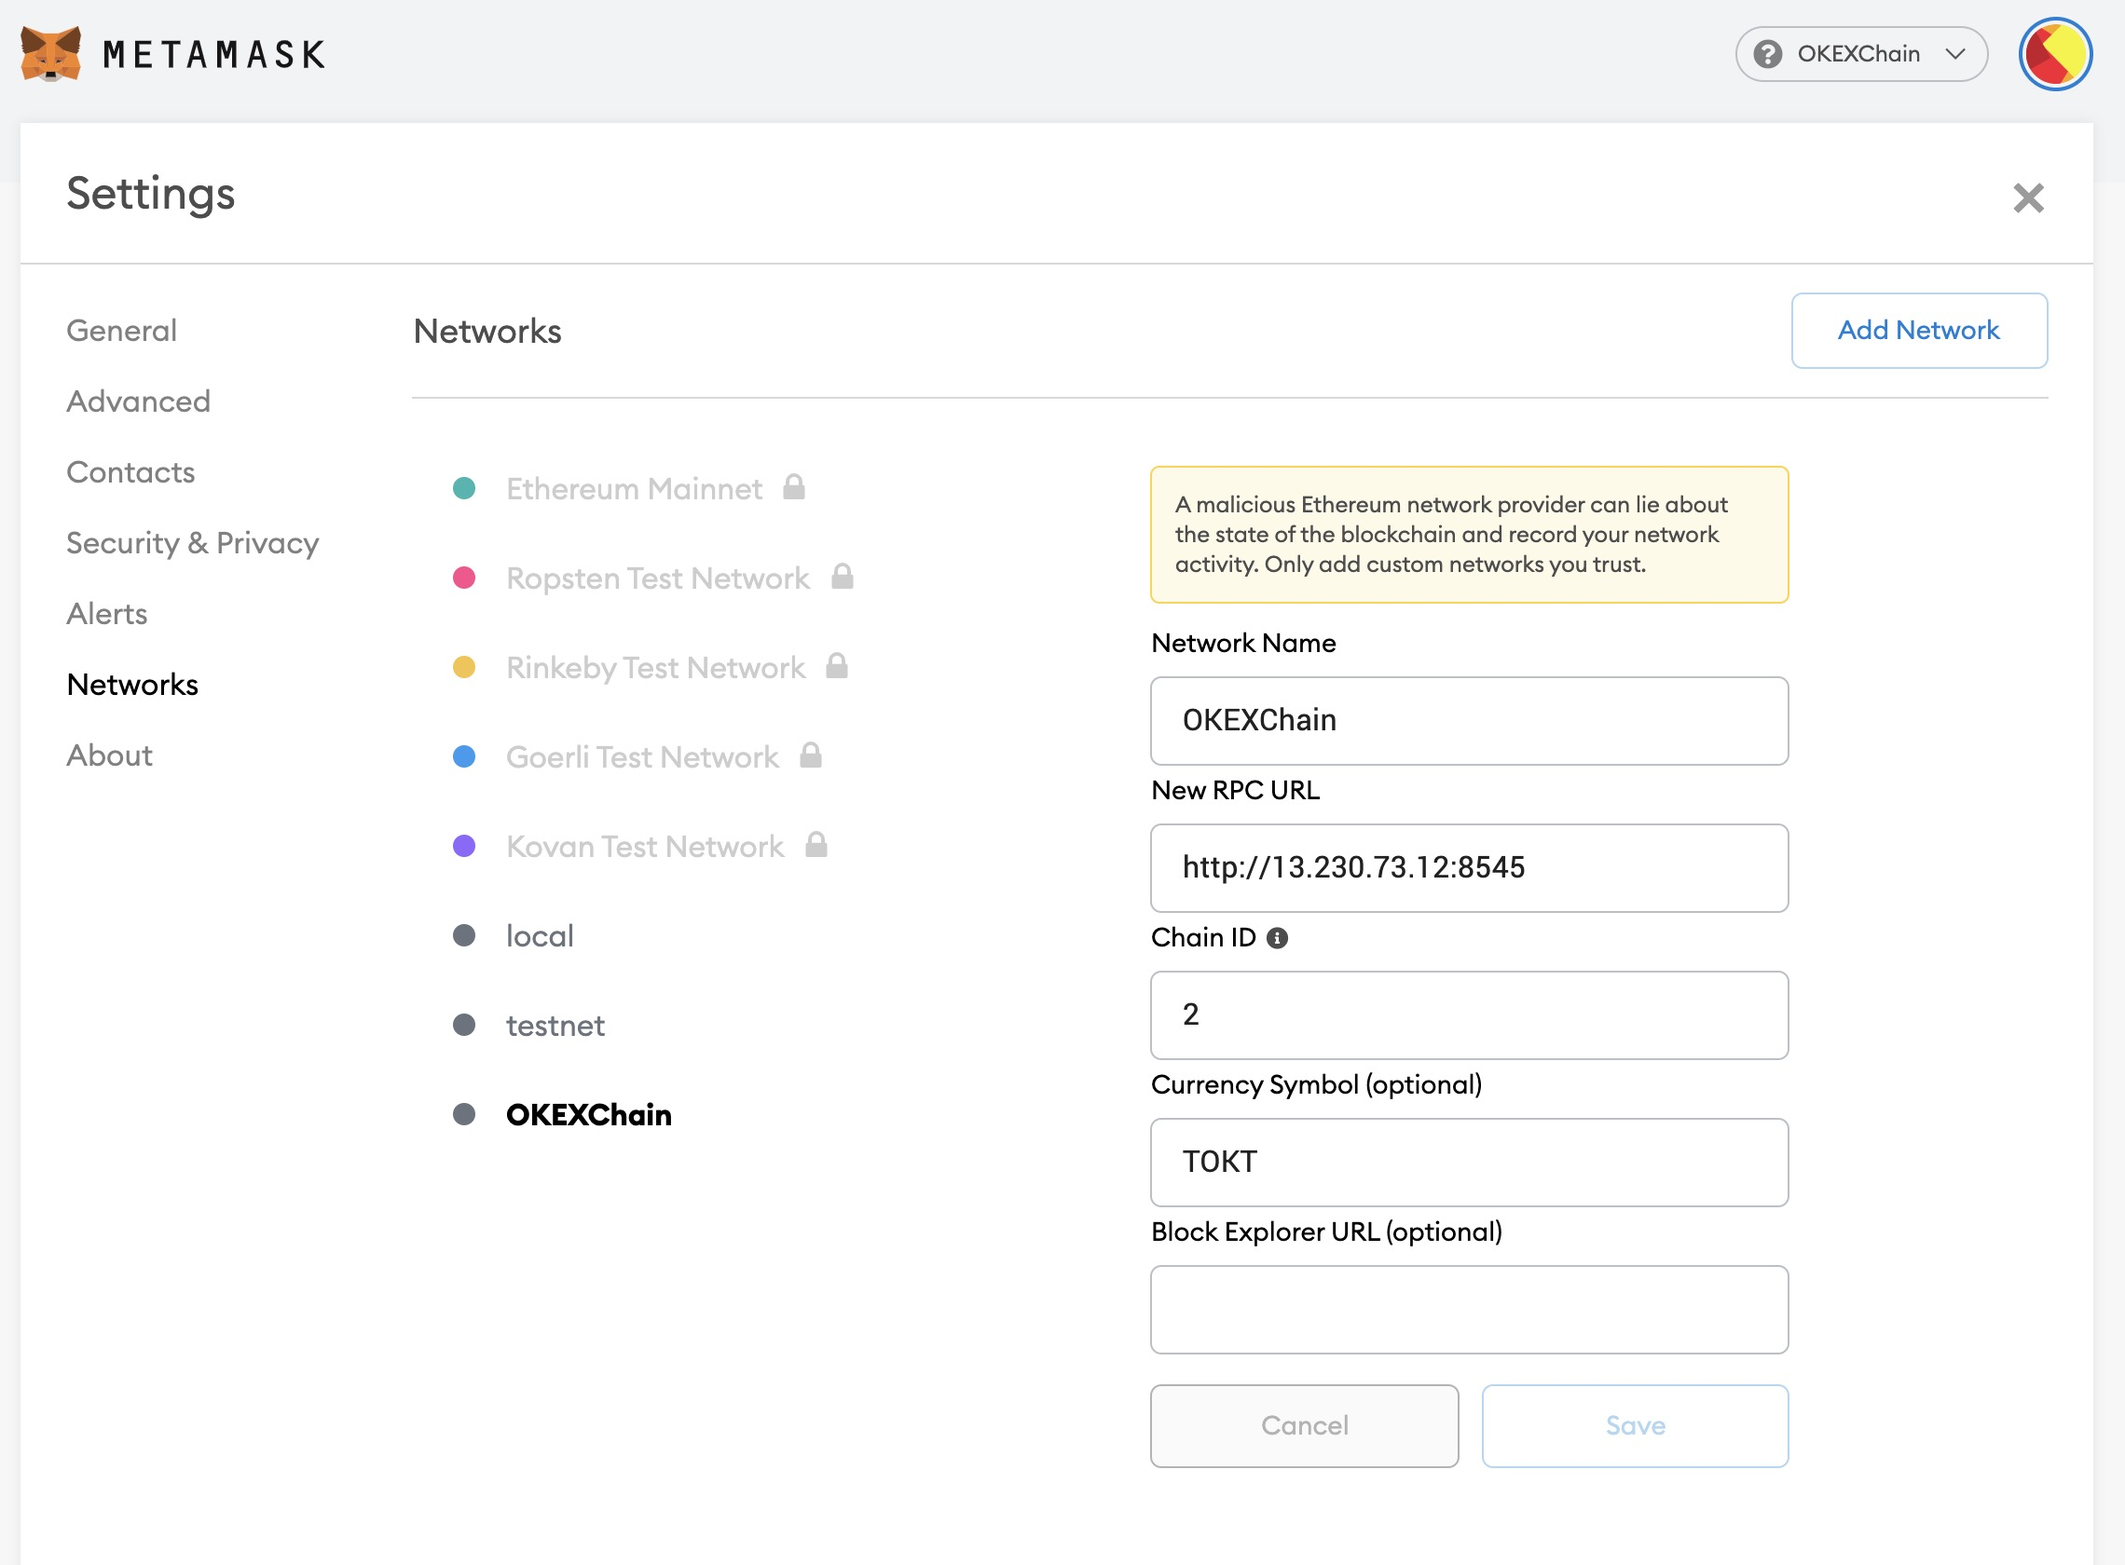
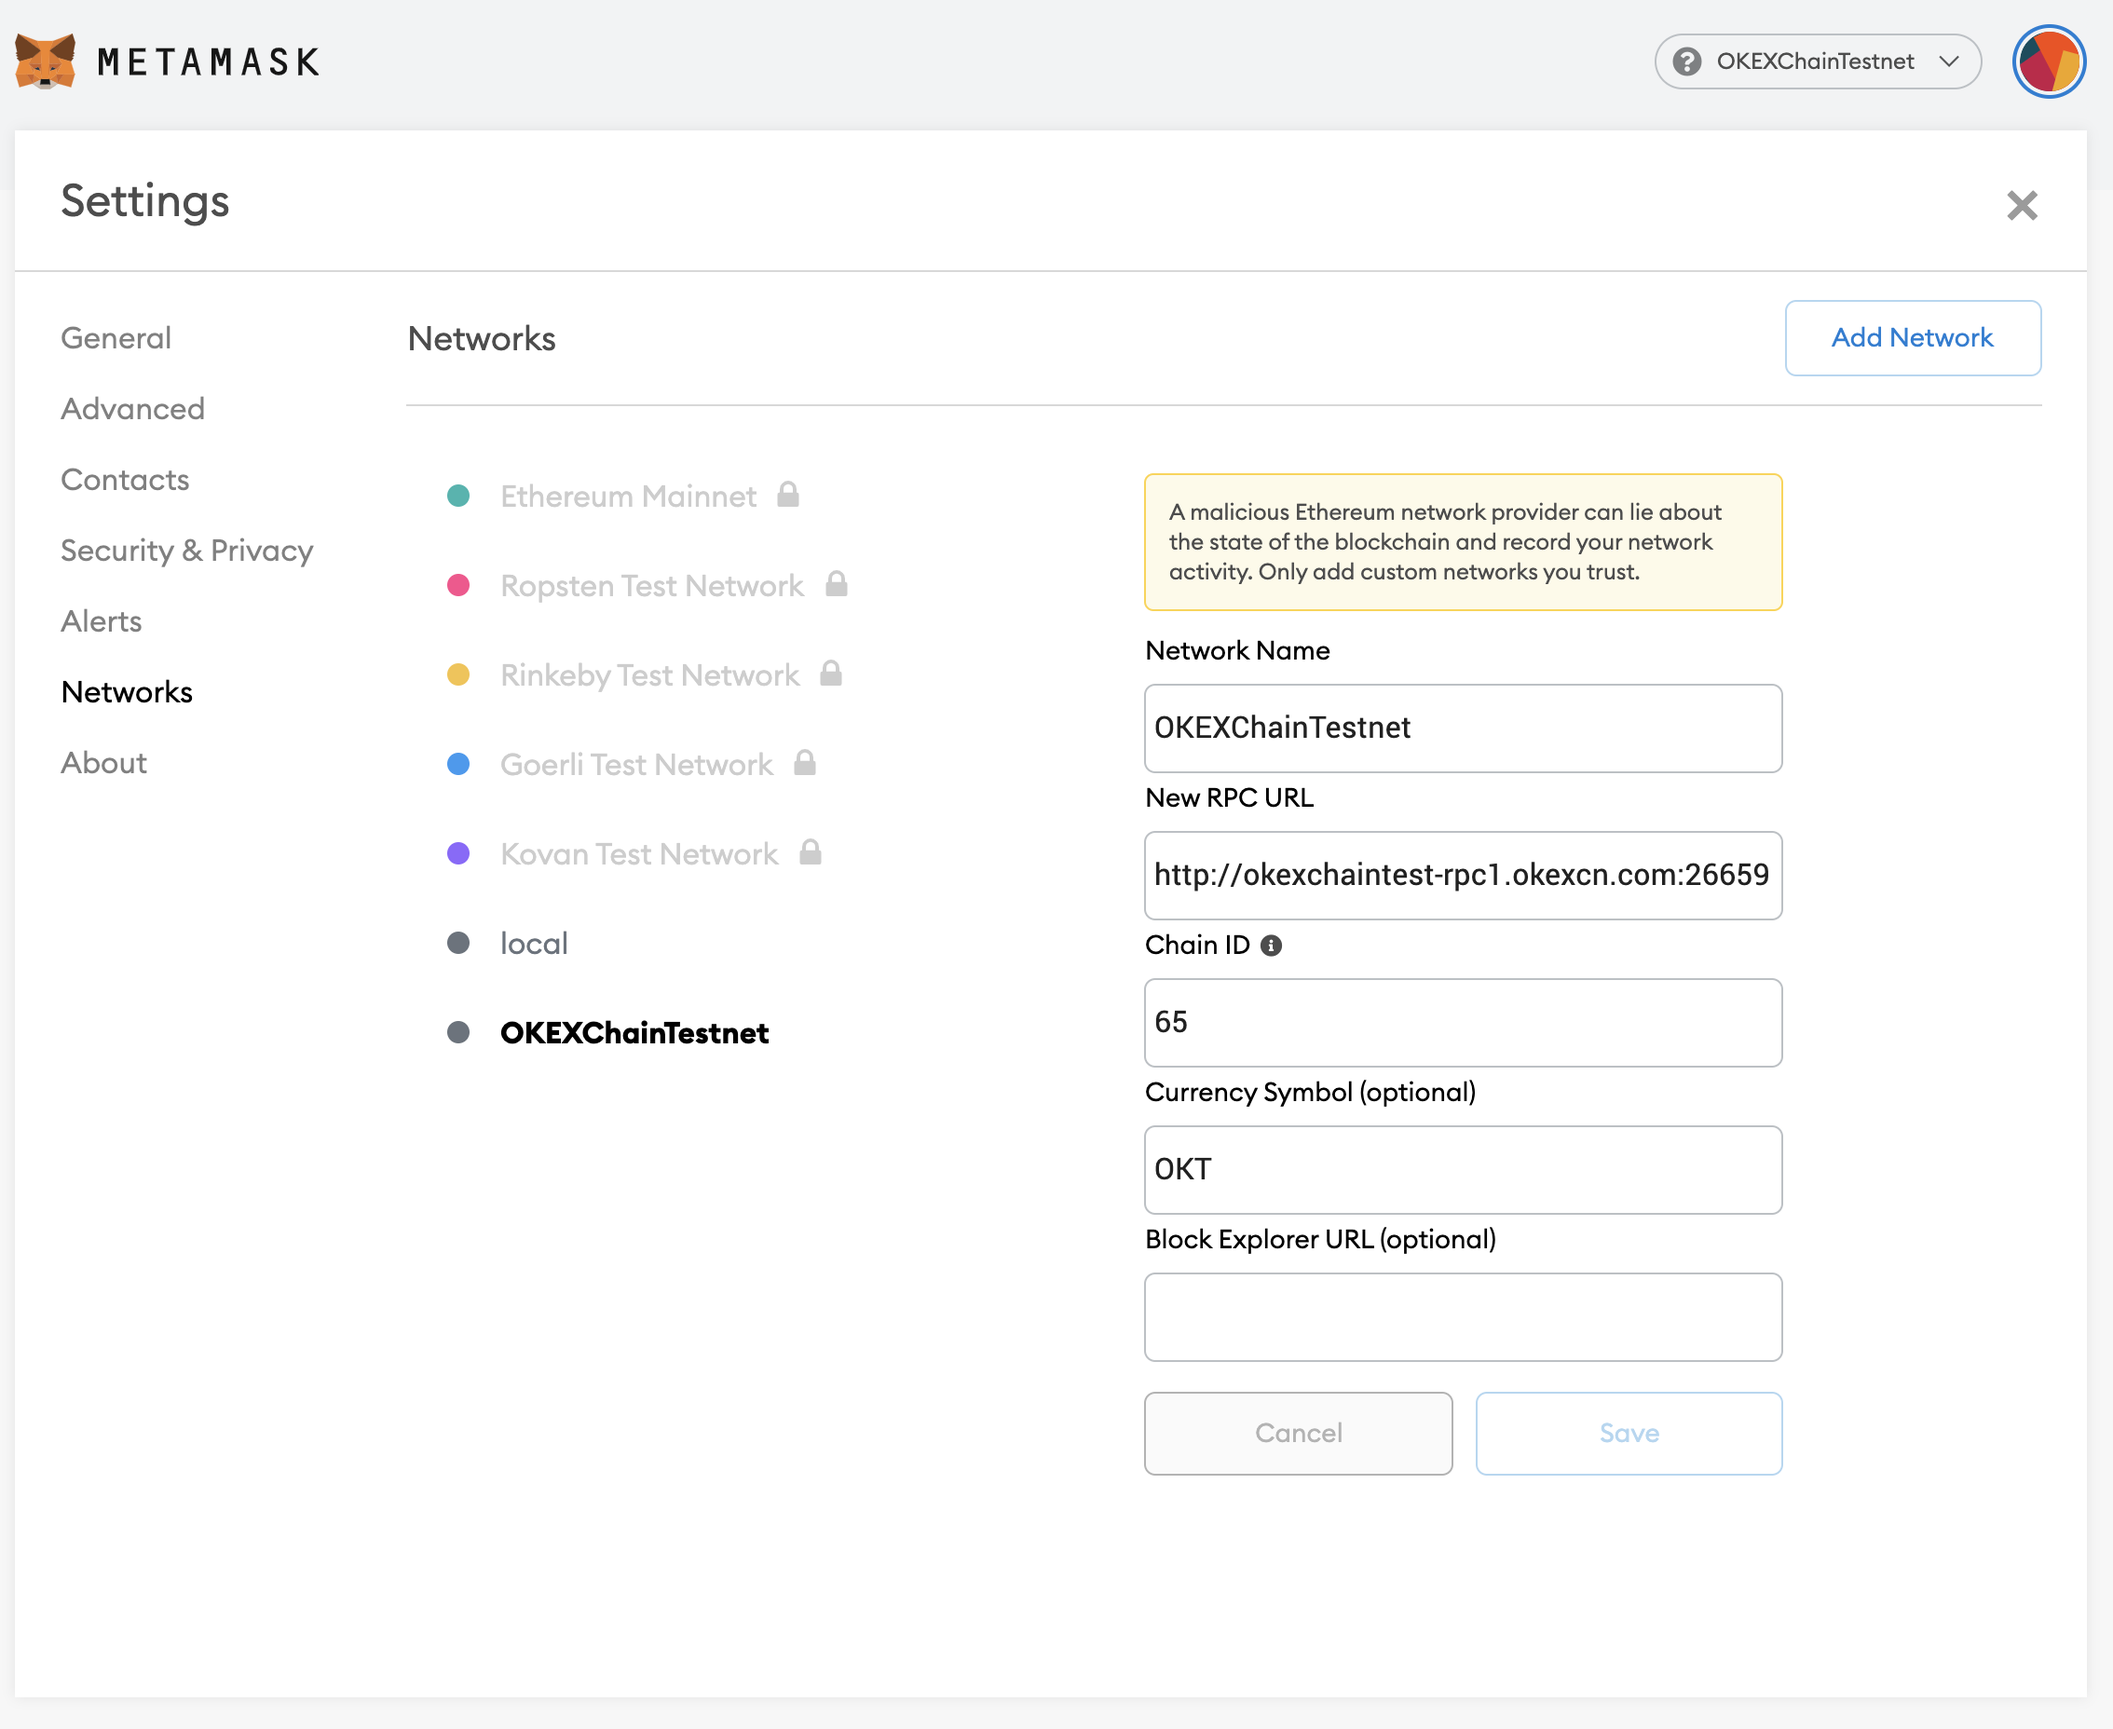
Add evm doc (#101)
* change metamask config

* Update rpc.md

* Update quick-start.md

* Update quick-start.md

* update img

* update img of config

diff --git a/docs/developers/blockchainDetail/rpc.md b/docs/developers/blockchainDetail/rpc.md
@@ -15,14 +15,30 @@ ___
 
 ## Testnet (chain-id: okexchain-65):
 
-### Recommend (Hong Kong domain)
+### RPC EndPoint
+#### Recommend (Hong Kong domain)
  - http://okexchaintest-rpc1.okex.com:26657 (proxy required, if you are in mainland China)
  - http://okexchaintest-rpc1.okexcn.com:26657
  
-### Backups (Ohio)
+#### Backups (Ohio)
  - http://okexchaintest-rpc2.okex.com:26657 (proxy required, if you are in mainland China)
  - http://okexchaintest-rpc2.okexcn.com:26657
  
-### Backups (London)
+#### Backups (London)
  - http://okexchaintest-rpc3.okex.com:26657 (proxy required, if you are in mainland China)
- - http://okexchaintest-rpc3.okexcn.com
+ - http://okexchaintest-rpc3.okexcn.com:26657
+
+### REST EndPoint
+#### Recommend (Hong Kong domain)
+ - http://okexchaintest-rpc1.okex.com:26659 (proxy required, if you are in mainland China)
+ - http://okexchaintest-rpc1.okexcn.com:26659
+ 
+#### Backups (Ohio)
+ - http://okexchaintest-rpc2.okex.com:26659 (proxy required, if you are in mainland China)
+ - http://okexchaintest-rpc2.okexcn.com:26659
+ 
+#### Backups (London)
+ - http://okexchaintest-rpc3.okex.com:26659 (proxy required, if you are in mainland China)
+ - http://okexchaintest-rpc3.okexcn.com:26659
+
+

diff --git a/docs/developers/quick-start.md b/docs/developers/quick-start.md
@@ -7,7 +7,7 @@ Open the Metamask extension on your browser, you may have to log in to your Meta
 Config your Metamask with following data   
 
 - NetWork Name: OKExChain Testnet
-- [RPC URL](blockchainDetail/rpc.md#testnet-chain-id-okexchain-65)
+- RPC URL: [Rest Address](blockchainDetail/rpc.html#rest-endpoint)
 - Chain ID: 65
 - Currency Symbol: OKT
 
